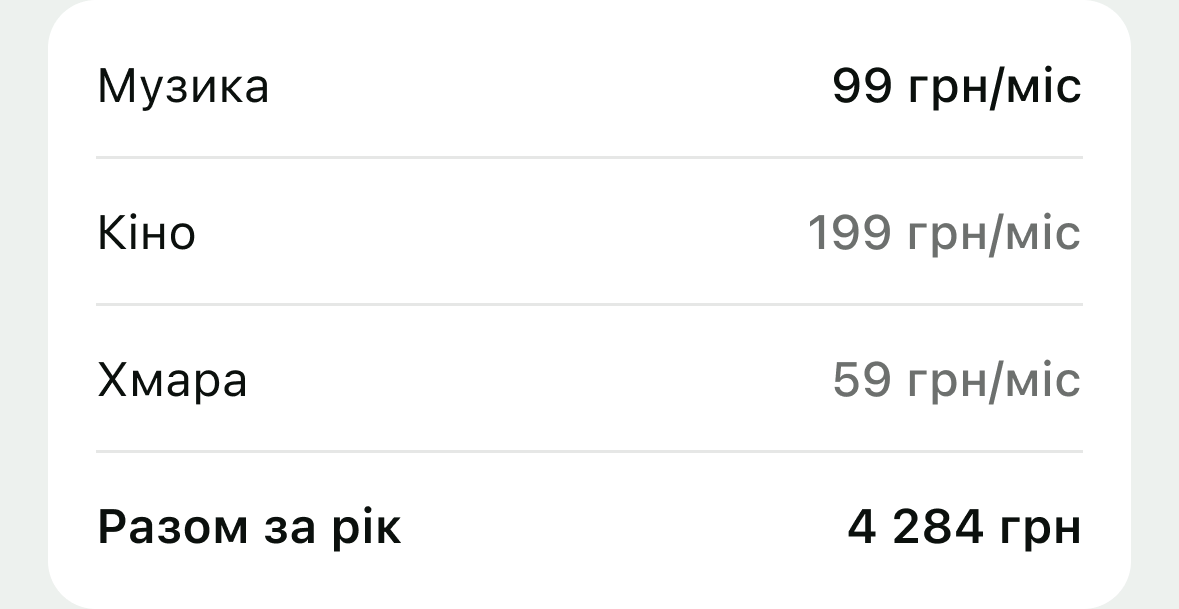
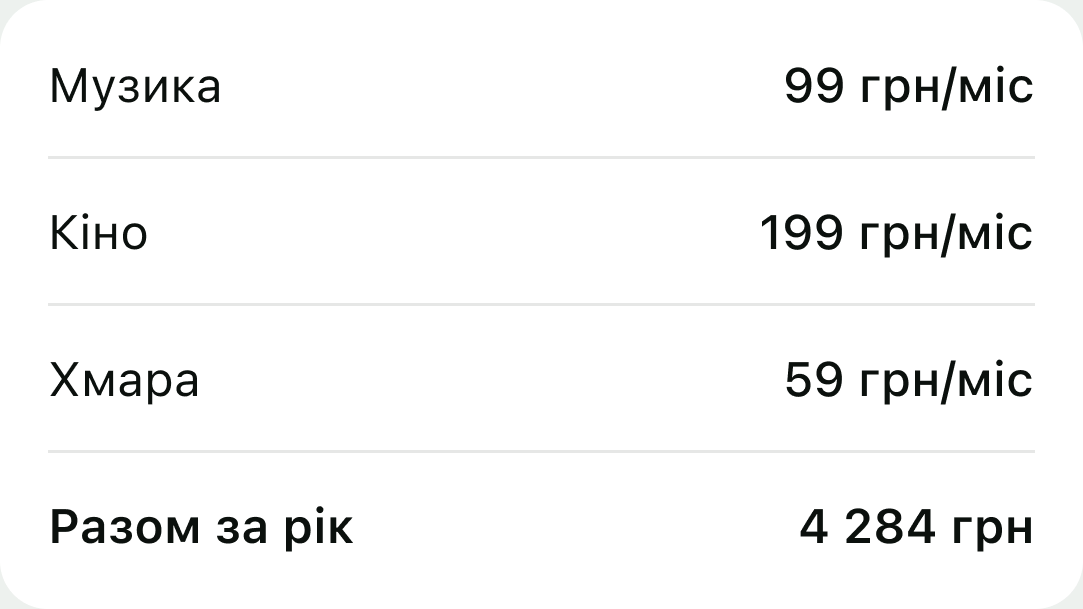
Article 1: match Figma table and visual block
Claude-Session: https://claude.ai/code/session_01BveFL3MC3ZsX2zGXqXU7pZ

diff --git a/src/data/library.ts b/src/data/library.ts
@@ -189,7 +189,7 @@ export type Article = {
   hero: ImageSourcePropType;
   intro: string;
   heading: string;
-  visuals: { src: ImageSourcePropType; ratio: number; alt: string }[];
+  visuals: { inset?: number; src: ImageSourcePropType; ratio: number; alt: string }[];
   /** Paragraphs separated by a blank line. A line break inside one makes its first line a bold lead-in. */
   text: string;
 };
@@ -202,8 +202,8 @@ export const ARTICLES: Record<string, Article> = {
     intro: 'Музика, кіно, хмара для фото – кожна підписка здається дрібницею. Але гроші списуються щомісяця, навіть коли нею не користуються.',
     heading: 'Скільки це за рік',
     visuals: [
-      { src: require('../../assets/img/art/vis1a.png'), ratio: 1179 / 609, alt: 'Музика 99 грн на місяць, кіно 199, хмара 59. Разом за рік 4 284 грн.' },
-      { src: require('../../assets/img/art/vis1b.png'), ratio: 1179 / 558, alt: 'Щомісяця по 357 грн, і так 12 разів: 4 284 грн за рік.' },
+      { src: require('../../assets/img/art/vis1a.png'), ratio: 1083 / 609, inset: 16, alt: 'Музика 99 грн на місяць, кіно 199, хмара 59. Разом за рік 4 284 грн.' },
+      { src: require('../../assets/img/art/vis1b.png'), ratio: 1059 / 216, inset: 20, alt: 'Щомісяця по 357 грн, і так 12 разів: 4 284 грн за рік.' },
     ],
     text: 'Як рахуємо: 99 + 199 + 59 = 357 грн на місяць. Помножимо на 12 – це 4 284 грн за рік.\n\nЯк скасувати зайві: відкрий виписку з банку й знайди всі регулярні списання. Залиш те, чим користуєшся щотижня.\n\nПідписки з App Store чи Google Play вимикають у налаштуваннях телефона. Безкоштовний пробний період краще вимкнути за день до кінця, щоб гроші не почали списуватися.',
   },

diff --git a/src/app/library/article/[id].tsx b/src/app/library/article/[id].tsx
@@ -52,7 +52,7 @@ export default function ArticleScreen() {
           {article.heading}
         </Text>
         {article.visuals.map((v, i) => (
-          <Image key={i} source={v.src} style={[styles.visual, { aspectRatio: v.ratio }]} contentFit="contain" accessibilityLabel={v.alt} />
+          <Image key={i} source={v.src} style={[styles.visual, { aspectRatio: v.ratio, marginHorizontal: v.inset ?? 0 }]} contentFit="contain" accessibilityLabel={v.alt} />
         ))}
         <Text variant="text16" style={styles.padText}>
           {article.text}
@@ -69,5 +69,5 @@ const styles = StyleSheet.create({
   chips: { flexDirection: 'row', flexWrap: 'wrap', gap: 4, paddingHorizontal: space.lg },
   chip: { paddingHorizontal: space.sm, paddingVertical: 2, borderRadius: radius.pill, backgroundColor: colors.glassStrong, borderWidth: 1, borderColor: colors.glass },
   hero: { marginHorizontal: space.lg, aspectRatio: 1083 / 489 },
-  visual: { width: '100%' },
+  visual: { alignSelf: 'stretch' },
 });
